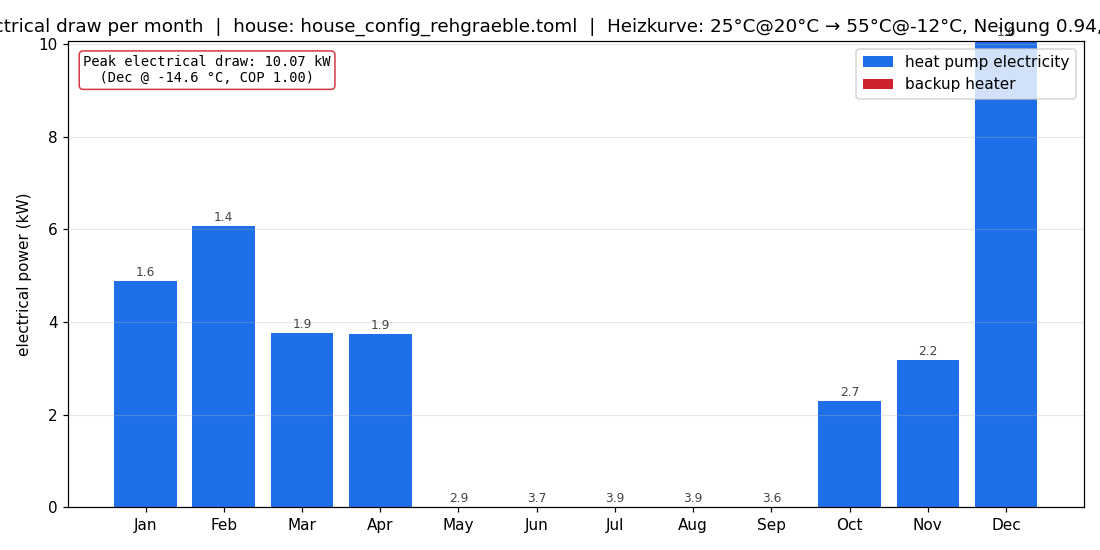
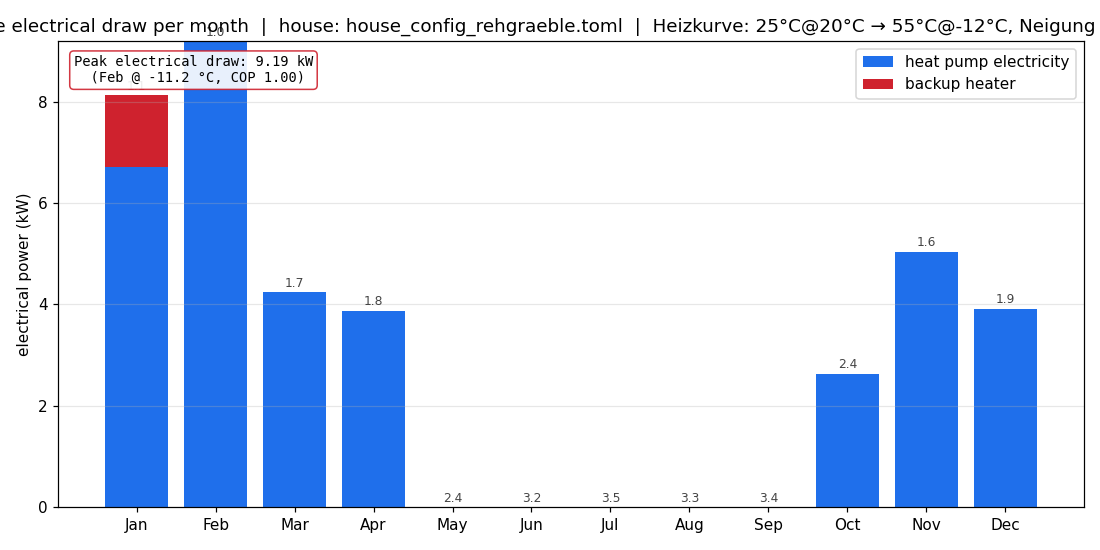
Enhance documentation and visualization for worst-case scenarios
- Updated README.md to clarify the worst-case month simulation using PVGIS TMY data from 2005–2023.
- Improved plot titles and labels in run_house.py and run_simulation.py for better clarity on worst-case heating power and electrical draw.
- Adjusted figure sizes and layout for improved visualization in worst-case plots.
- Updated weather.py to ensure worst-case scenarios consistently reference the TMY data.
- Enhanced documentation in index.html and stats.json to reflect changes in worst-case scenario outputs.

diff --git a/docs/index.html b/docs/index.html
@@ -64,8 +64,8 @@
       "house_full_year.png": "House heat demand only — no heat pump COP or electricity.",
       "radiator_check.png": "Radiator output at design flow vs room design load. Underpowered rooms need higher flow or bigger radiators.",
       "radiator_room_energy.png": "Design-point heat loss split: transmission, infiltration, and window airing per room.",
-      "sim_worst_case.png": "Peak electrical draw in the coldest hour of each month (heat pump + backup heater).",
-      "house_worst_case.png": "Peak house thermal load in the coldest hour of each month.",
+      "sim_worst_case.png": "Peak electrical draw in the coldest hour of each month (PVGIS TMY 2005–2023; heat pump + backup heater).",
+      "house_worst_case.png": "Peak house thermal load in the coldest hour of each month (PVGIS TMY 2005–2023).",
     };
 
     let stats = null;

diff --git a/run_simulation.py b/run_simulation.py
@@ -304,17 +304,25 @@ def run_worst_case(house, hp, scenario, heating_curve, house_label,
     hp_kw = r["p_el_hp_w"] / 1000
     bk_kw = r["backup_w"] / 1000
 
-    fig, ax = plt.subplots(figsize=(10, 5))
+    fig, ax = plt.subplots(figsize=(10, 5.5))
     ax.bar(months, hp_kw, color="#1f6feb", label="heat pump electricity")
     ax.bar(months, bk_kw, bottom=hp_kw, color="#cf222e", label="backup heater")
     for i, v in enumerate(el_kw):
-        ax.text(i, v + 0.05, f"{r['cop'][i]:.1f}", ha="center", va="bottom",
-                fontsize=8, color="#444")
-    weather_note = f"{weather_label}  |  " if weather_label else ""
-    ax.set_title(f"{weather_note}Worst-case electrical draw per month  |  "
-                 f"house: {house_label}  |  "
-                 f"{heating_curve.label()} (COP labeled)")
+        if v > 0.1:
+            ax.text(i, v + 0.12, f"{r['cop'][i]:.1f}", ha="center", va="bottom",
+                    fontsize=8, color="#444")
+
+    weather_note = f"{weather_label}  ·  " if weather_label else ""
+    ax.set_title(
+        "Worst-case electrical draw per month\n"
+        f"{weather_note}{heating_curve.label()}  ·  {house_label}",
+        fontsize=10,
+        linespacing=1.35,
+    )
     ax.set_ylabel("electrical power (kW)")
+    peak = float(el_kw.max())
+    y_top = int(np.ceil((peak + 1.2) / 2)) * 2
+    ax.set_ylim(0, max(y_top, 10))
     ax.grid(axis="y", alpha=0.3)
     ax.legend(loc="upper right")
 
@@ -325,7 +333,7 @@ def run_worst_case(house, hp, scenario, heating_curve, house_label,
     ax.text(0.015, 0.97, info, transform=ax.transAxes, ha="left", va="top",
             fontsize=9, family="monospace",
             bbox=dict(boxstyle="round", fc="white", ec="#cf222e", alpha=0.9))
-    fig.tight_layout()
+    fig.tight_layout(rect=(0, 0, 1, 0.96))
     out = OUTPUT_DIR / "sim_worst_case.png"
     fig.savefig(out, dpi=110)
     plt.close(fig)
@@ -348,8 +356,9 @@ def main() -> None:
     print(f"Weather              : {drv.source_label}")
 
     if scenario_name == "worst_case":
+        print(f"Weather (worst case) : {drv.worst_case_source_label}")
         out = run_worst_case(house, hp, drv.worst_case_per_month(), heating_curve,
-                             house_label, drv.title_label)
+                             house_label, drv.worst_case_title_label)
     else:
         full = drv.full_year()
         dhw = compute_dhw(house_cfg, hp, full.data)

diff --git a/run_house.py b/run_house.py
@@ -108,16 +108,25 @@ def run_worst_case(house: House, scenario, weather_label: str = "") -> Path:
           f" at {outdoor[worst_i]:.1f} °C -> {power_kw[worst_i]:.2f} kW")
 
     months = [calendar.month_abbr[int(m)] for m in df["month"]]
-    fig, ax = plt.subplots(figsize=(10, 5))
+    fig, ax = plt.subplots(figsize=(10, 5.5))
     bars = ax.bar(months, power_kw, color="#1f6feb")
     bars[worst_i].set_color("#cf222e")
     for i, v in enumerate(power_kw):
-        ax.text(i, v + 0.05, f"{v:.1f}", ha="center", va="bottom", fontsize=8)
-    weather_note = f"{weather_label}  |  " if weather_label else ""
-    ax.set_title(f"Worst-case heating power per month  |  {weather_note}coldest hour")
+        if v > 0.1:
+            ax.text(i, v + 0.12, f"{v:.1f}", ha="center", va="bottom", fontsize=8)
+    weather_note = f"{weather_label}  ·  " if weather_label else ""
+    ax.set_title(
+        "Worst-case heating power per month\n"
+        f"{weather_note}coldest hour per month (TMY)",
+        fontsize=10,
+        linespacing=1.35,
+    )
     ax.set_ylabel("power (kW)")
+    peak = float(power_kw.max())
+    y_top = int(np.ceil((peak + 1.2) / 2)) * 2
+    ax.set_ylim(0, max(y_top, 10))
     ax.grid(axis="y", alpha=0.3)
-    fig.tight_layout()
+    fig.tight_layout(rect=(0, 0, 1, 0.96))
     out = OUTPUT_DIR / "house_worst_case.png"
     fig.savefig(out, dpi=110)
     plt.close(fig)
@@ -133,7 +142,8 @@ def main() -> None:
     print(f"Weather: {drv.source_label}")
 
     if scenario_name == "worst_case":
-        out = run_worst_case(house, drv.worst_case_per_month(), drv.title_label)
+        print(f"Weather (worst case): {drv.worst_case_source_label}")
+        out = run_worst_case(house, drv.worst_case_per_month(), drv.worst_case_title_label)
     else:
         out = run_full_year(house, drv.full_year(), drv.title_label)
 

diff --git a/weather.py b/weather.py
@@ -11,7 +11,9 @@ Two data sources (selected via ``[weather]`` in ``config/config.toml``):
 Both expose:
 
   - full_year()            : the full hourly outdoor temperature series
-  - worst_case_per_month() : the single coldest hour of each month (12 points)
+  - worst_case_per_month() : coldest hour of each month from the PVGIS TMY
+                             (2005–2023 stitched months), always — independent
+                             of the calendar year used for full_year()
 """
 
 from __future__ import annotations
@@ -154,12 +156,17 @@ class WeatherScenario:
 class WeatherDriver:
     def __init__(self, cfg: dict | None = None):
         settings = parse_weather_config(cfg or {})
+        self.tmy_path = settings["tmy_path"]
+        self.tmy_df = load_tmy(self.tmy_path)
+        self.worst_case_source_label = "PVGIS TMY (2005–2023, coldest hour per month)"
+        self.worst_case_title_label = "TMY 2005–2023"
+
         year = settings["year"]
         if year == 0:
             self.source_label = "PVGIS TMY (2005–2023 stitched months)"
             self.title_label = "TMY"
             self.weather_year = None
-            self.df = load_tmy(settings["tmy_path"])
+            self.df = self.tmy_df
         else:
             self.weather_year = year
             self.source_label = f"calendar year {year} (Open-Meteo ERA5)"
@@ -178,13 +185,14 @@ class WeatherDriver:
                                dt_hours=1.0, use_inertia=True)
 
     def worst_case_per_month(self) -> WeatherScenario:
-        """Coldest hour of each month (12 points).
+        """Coldest hour of each month (12 points) from the PVGIS TMY.
 
-        These points are discontinuous in time, so buffer-temperature inertia
-        is disabled for this scenario (each point is treated as steady-state).
+        Always uses the 2005–2023 stitched TMY, not the calendar year
+        configured for full_year(). Points are discontinuous in time, so
+        buffer-temperature inertia is disabled (steady-state per point).
         """
-        idx = self.df.groupby("month")["t_out"].idxmin()
-        wc = self.df.loc[idx].sort_values("month").reset_index(drop=True)
+        idx = self.tmy_df.groupby("month")["t_out"].idxmin()
+        wc = self.tmy_df.loc[idx].sort_values("month").reset_index(drop=True)
         return WeatherScenario(name="worst_case_per_month", data=wc,
                                dt_hours=1.0, use_inertia=False)
 

diff --git a/README.md b/README.md
@@ -22,7 +22,7 @@ Main entry point. Prints annual energy, JAZ, DHW, electricity bill, and saves a 
 # Your house (Rehgräble) — use this for real results
 HOUSE_CONFIG=house_config_rehgraeble.toml .venv/bin/python run_simulation.py full_year
 
-# Worst-case month (coldest hour per month)
+# Worst-case month (coldest hour per month from PVGIS TMY 2005–2023)
 HOUSE_CONFIG=house_config_rehgraeble.toml .venv/bin/python run_simulation.py worst_case
 ```
 
@@ -74,7 +74,9 @@ latitude = 48.351    # Ulm area
 longitude = 10.164
 ```
 
-Use `year = 0` for the old PVGIS Typical Meteorological Year (stitched months from 2005–2023). On first use of a new year, hourly data is downloaded from Open-Meteo and cached in `source_data/weather_{lat}_{lon}_{year}.csv`.
+Use `year = 0` to run the full-year simulation on the PVGIS Typical Meteorological Year (stitched months from 2005–2023) instead of a single calendar year. On first use of a new year, hourly data is downloaded from Open-Meteo and cached in `source_data/weather_{lat}_{lon}_{year}.csv`.
+
+The **worst-case** plots (`sim_worst_case.png`, `house_worst_case.png`) always use the TMY coldest hour per month from 2005–2023, regardless of `[weather] year`.
 
 Each heated level auto-gets a **circulation proxy** when `[building]` footprint is set: `net floor = footprint × (1 − wall_area_fraction) − sum(room areas)`. `wall_area_fraction` (default 0.12) is the wall/partition share. Covers Flur/Verkehrsfläche without listing every zone. No exterior walls, no radiators; floor/ceiling + infiltration losses only.
 